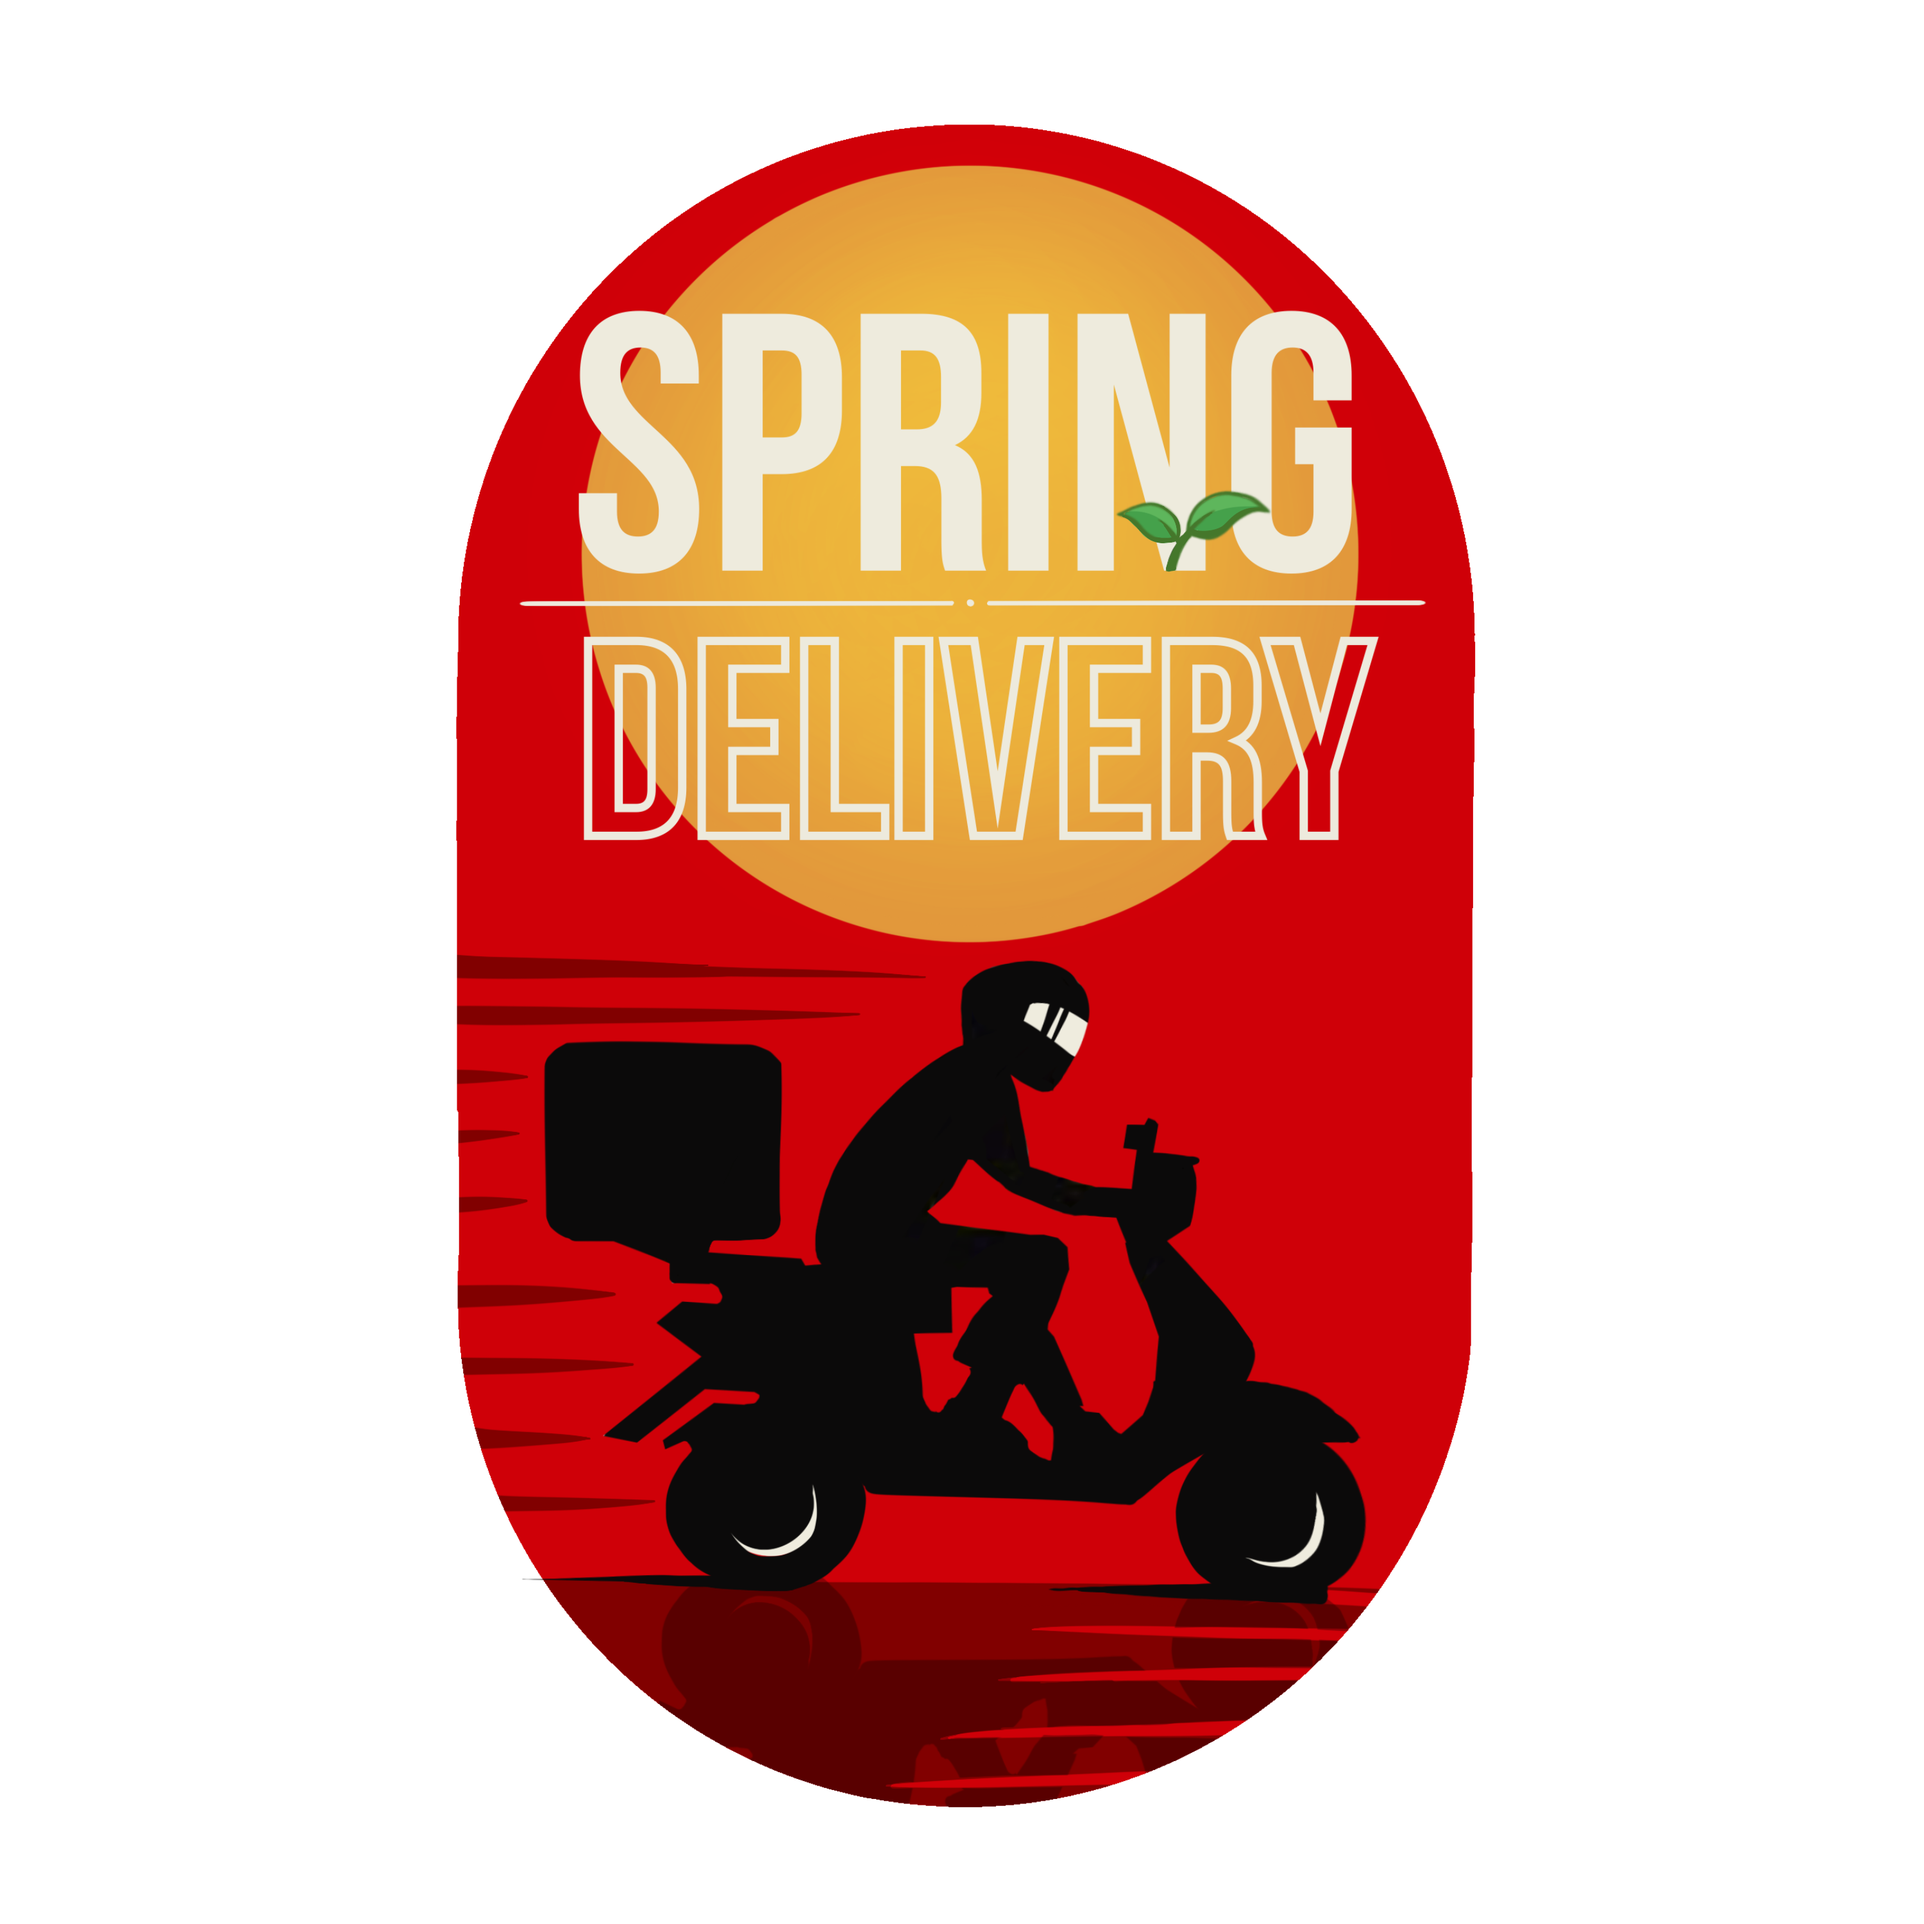
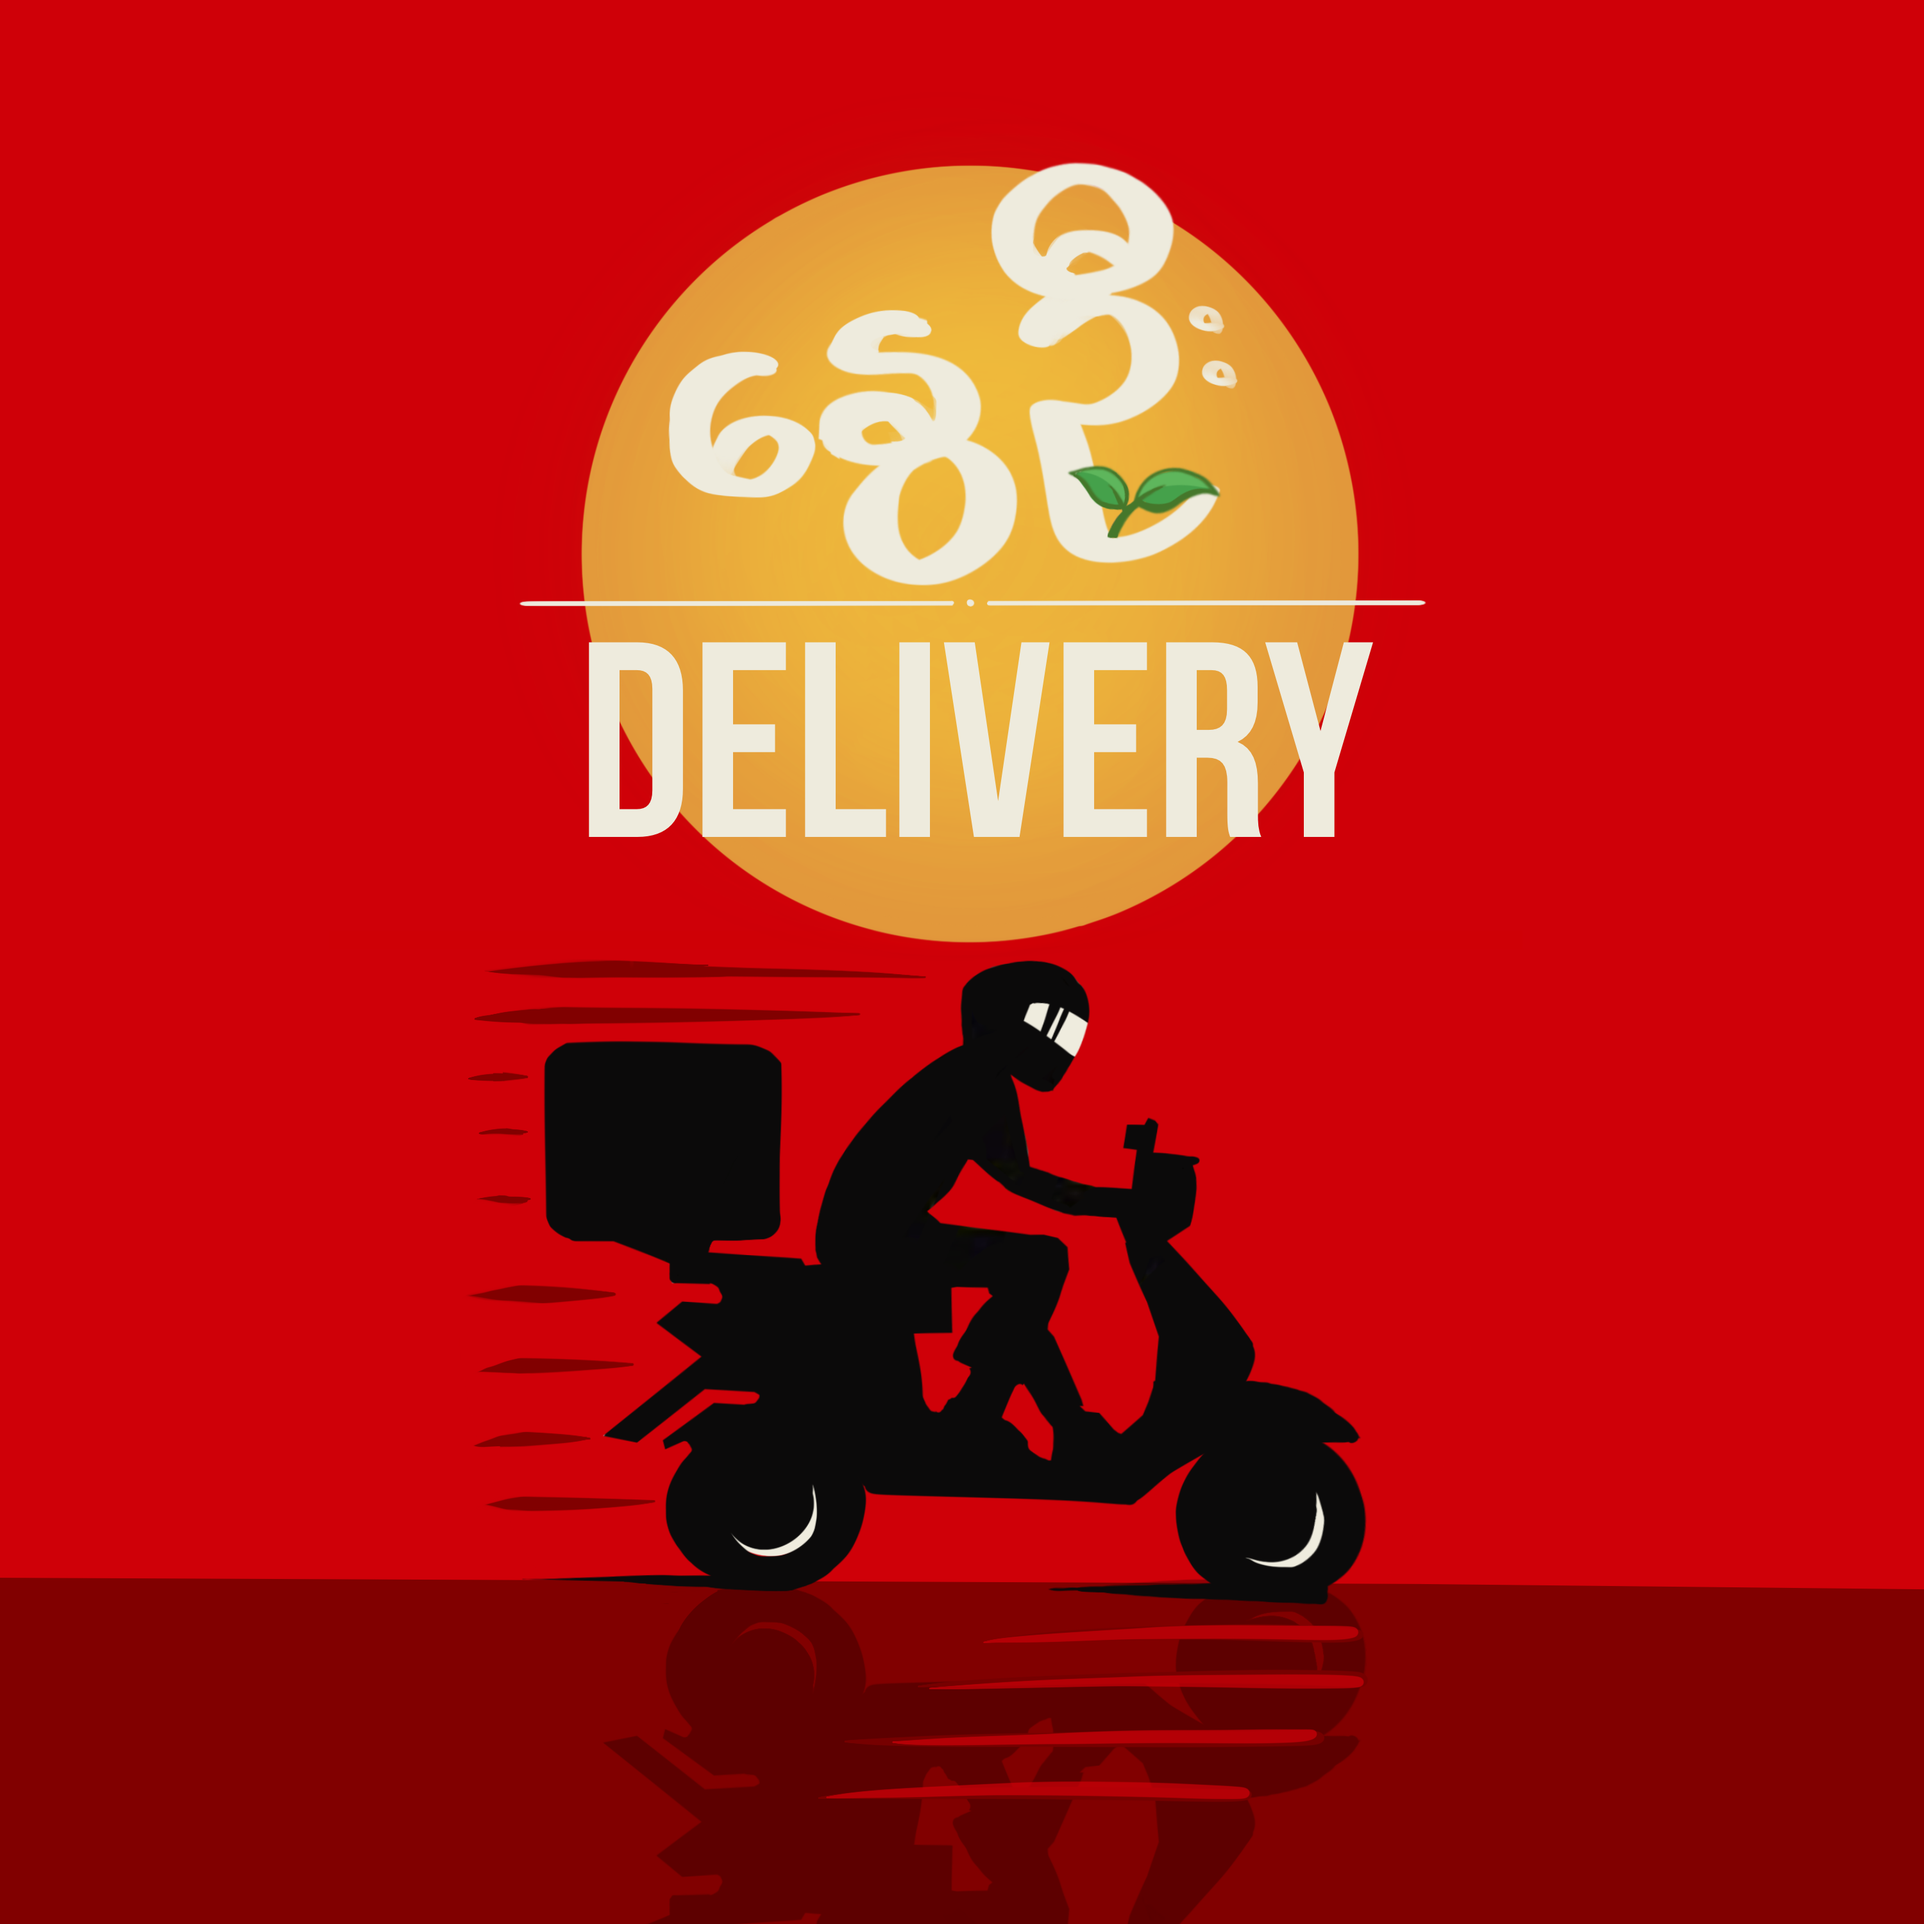
feat: change UI of home screen

diff --git a/src/pages/Home.js b/src/pages/Home.js
@@ -19,8 +19,7 @@ const useStyle = makeStyles({
   header: {
     display: "flex",
     flexDirection: "row",
-    justifyContent: "space-around",
-    alignItems: "center",
+    justifyContent: "center",
   },
 });
 
@@ -29,24 +28,13 @@ const Home = () => {
   const history = useHistory();
   return (
     <Box className={classes.root}>
-      {/* <Box className={classes.header}>
-        <Box> */}
-      <Typography variant="h3" align="center" color="primary" gutterBottom>
-        <strong>နွေဦး</strong>
-      </Typography>
-      <Typography variant="h3" gutterBottom align="center" color="primary">
-        <strong>Delivery</strong>
-      </Typography>
-      {/* </Box>
-        <Box> */}
-      {/* <Avatar src = "/main.PNG" style={{ height: "200px", width: "200px" }}> */}
-      {/* <img
-            src="/main.PNG"
-            alt="logo"
-            style={{ height: "200px", width: "200px" }}
-          />
-        </Box>
-      </Box> */}
+      <Box className={classes.header}>
+        <img
+          src="/main.PNG"
+          style={{ height: "300px", width: "300px", borderRadius: "50%" }}
+          alt="logo"
+        />
+      </Box>
       <Box className={classes.chooseContainer}>
         <Button
           variant="contained"

diff --git a/public/index.html b/public/index.html
@@ -2,7 +2,7 @@
 <html lang="en">
   <head>
     <meta charset="utf-8" />
-    <link rel="icon" href="/ss.PNG" />
+    <link rel="icon" href="/main.PNG" />
     <meta name="viewport" content="width=device-width, initial-scale=1" />
     <meta name="theme-color" content="#000000" />
     <meta
